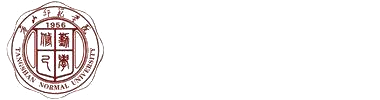
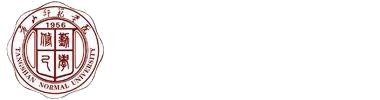
修复登录/注册/管理失效（PBKDF2 迭代数超 Workers 上限）+ 徽标去底与统一认证系统命名
- 关键修复：Workers WebCrypto 的 PBKDF2 迭代上限为 100000，原先设为 120000 →
  注册直接 500（Pbkdf2 failed: iteration counts above 100000），登录时 verifyPassword
  内部抛错被 catch 成 false（正确密码也报“用户名或密码错误”）。改为 100000 并加注释。
- 重播种管理员：seed-admin.sql 与 D1 中的 admin 密码哈希改用 100000 次迭代（已验证可校验）。
- 徽标：改用「边界泛洪去底」生成透明 PNG，保留校徽内部白色文字（2583 px）与吧徽内部白（9091 px）；
  移除吧徽的白色圆形底，校徽/吧徽均无白底、观感统一。
- 命名：登录/注册页与后台体现“唐山师范学院吧统一认证系统”（品牌区 + 页面标题）。

diff --git a/functions/_lib/ui.js b/functions/_lib/ui.js
@@ -9,7 +9,7 @@ export function authShell({ title, subtitle, apiPath, formHtml, footerHtml, redi
   return `<!DOCTYPE html><html lang="zh-CN"><head>
 <meta charset="UTF-8">
 <meta name="viewport" content="width=device-width, initial-scale=1.0">
-<title>${title} · 唐山师范学院吧</title>
+<title>${title} · 唐山师范学院吧统一认证系统</title>
 <style>
   :root {
     --primary: #0465bc; --secondary: #2575fc; --tint: #0a6cd6;
@@ -41,12 +41,20 @@ export function authShell({ title, subtitle, apiPath, formHtml, footerHtml, redi
   }
   .brand { display: flex; flex-direction: column; align-items: center; text-align: center; margin-bottom: 18px; }
   .logo-row { display: flex; align-items: center; justify-content: center; gap: 14px; margin-bottom: 12px; }
+  /* 校徽与吧徽均为「边界泛洪去底」的透明 PNG，统一不加白底，保持观感一致 */
   .bar-logo {
-    width: 68px; height: 68px; border-radius: 50%; object-fit: cover;
-    background: #fff; padding: 4px; border: 2px solid rgba(255,255,255,.9);
-    box-shadow: 0 6px 18px -8px rgba(0,0,0,.30);
+    width: 64px; height: 64px; border-radius: 50%; object-fit: cover;
+    filter: drop-shadow(0 4px 10px rgba(0,0,0,.18));
   }
-  .school-badge { height: 46px; width: auto; filter: drop-shadow(0 2px 6px rgba(0,0,0,.12)); }
+  .school-badge { height: 40px; width: auto; filter: drop-shadow(0 2px 6px rgba(0,0,0,.14)); }
+  .sys-name {
+    font-size: 13px; font-weight: 600; color: var(--tint); letter-spacing: .6px;
+    margin-bottom: 10px; padding-bottom: 8px;
+  }
+  .sys-name::after {
+    content: ''; display: block; width: 44px; height: 2px; margin: 8px auto 0;
+    border-radius: 2px; background: linear-gradient(90deg, var(--primary), var(--secondary)); opacity: .55;
+  }
   h1 { font-size: 20px; margin: 2px 0 2px; color: var(--text-strong); letter-spacing: .5px; }
   .sub { font-size: 13px; color: var(--text-muted); margin: 0; }
   label { display: block; font-size: 13px; color: var(--text); margin: 14px 0 6px; }
@@ -84,7 +92,7 @@ export function authShell({ title, subtitle, apiPath, formHtml, footerHtml, redi
     h1 { color: #fff; } .sub, .foot, a.home { color: #aab4c2; }
     input { background: rgba(255,255,255,.06); border-color: rgba(255,255,255,.18); color: #fff; }
     input::placeholder { color: #7e8a9a; }
-    .bar-logo { background: rgba(255,255,255,.08); }
+    .sys-name { color: #7fb0ff; }
   }
 </style>
 </head><body>
@@ -94,6 +102,7 @@ export function authShell({ title, subtitle, apiPath, formHtml, footerHtml, redi
         <img class="bar-logo" src="${BAR_LOGO}" alt="唐山师范学院吧">
         <img class="school-badge" src="${SCHOOL_BADGE}" alt="唐山师范学院">
       </div>
+      <div class="sys-name">唐山师范学院吧统一认证系统</div>
       <h1>${title}</h1>
       <p class="sub">${subtitle}</p>
     </div>

diff --git a/functions/admin.js b/functions/admin.js
@@ -9,7 +9,7 @@ export async function onRequest(context) {
   return html(`<!DOCTYPE html><html lang="zh-CN"><head>
 <meta charset="UTF-8">
 <meta name="viewport" content="width=device-width, initial-scale=1.0">
-<title>管理后台 · 唐山师范学院吧</title>
+<title>管理后台 · 唐山师范学院吧统一认证系统</title>
 <style>
   :root {
     --primary:#0465bc; --secondary:#2575fc; --tint:#0a6cd6; --accent:#4c94ff;
@@ -35,8 +35,9 @@ export async function onRequest(context) {
     box-shadow: inset 2px -2px 1px -1px hsla(0,0%,100%,.9), inset -2px 2px 1px -1px hsla(0,0%,100%,.9), 0 16px 40px -20px rgba(0,0,0,.28);
   }
   .brand { display:flex; align-items:center; gap:12px; font-weight:700; font-size:17px; color:var(--text-strong); }
-  .brand .bar-logo { width:46px; height:46px; border-radius:50%; object-fit:cover; background:#fff; padding:3px; border:2px solid rgba(255,255,255,.9); box-shadow:0 4px 12px -6px rgba(0,0,0,.35); }
-  .brand .school-badge { height:32px; width:auto; filter:drop-shadow(0 2px 5px rgba(0,0,0,.12)); }
+  /* 校徽/吧徽均为透明 PNG，统一不加白底 */
+  .brand .bar-logo { width:44px; height:44px; border-radius:50%; object-fit:cover; filter:drop-shadow(0 3px 8px rgba(0,0,0,.18)); }
+  .brand .school-badge { height:30px; width:auto; filter:drop-shadow(0 2px 5px rgba(0,0,0,.14)); }
   .brand .b-title { display:flex; flex-direction:column; line-height:1.15; }
   .brand .b-title small { font-weight:500; font-size:12px; color:var(--text-muted); }
   .topbar .actions { display:flex; gap:8px; }
@@ -93,7 +94,7 @@ export async function onRequest(context) {
     <span class="brand">
       <img class="bar-logo" src="/assets/images/bar-logo.png" alt="唐山师范学院吧">
       <img class="school-badge" src="/assets/img/school-badge.png" alt="唐山师范学院">
-      <span class="b-title">唐山师范学院吧<small>管理后台</small></span>
+      <span class="b-title">唐山师范学院吧统一认证系统<small>管理后台</small></span>
     </span>
     <span class="actions">
       <a href="https://${MAIN_HOST}">返回主站</a>

diff --git a/functions/_lib/config.js b/functions/_lib/config.js
@@ -9,4 +9,7 @@ export const ALLOWED_ORIGINS = [
   'https://www.tstc.pp.ua',
   'https://sso.tstc.pp.ua',
 ];
-export const PBKDF2_ITERATIONS = 120000;
+// PBKDF2 迭代次数。注意：Cloudflare Workers 的 WebCrypto 对 PBKDF2 有硬上限，
+// 超过 100000 会直接抛错 "iteration counts above 100000 are not supported"，
+// 导致注册 500、登录 verifyPassword 内部抛错被 catch 成 false（表现为密码永远错误）。
+export const PBKDF2_ITERATIONS = 100000;
